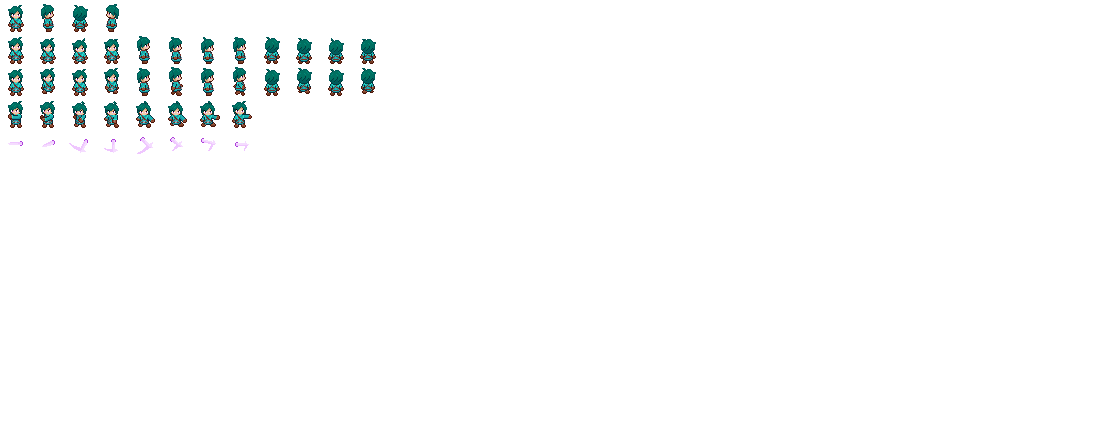
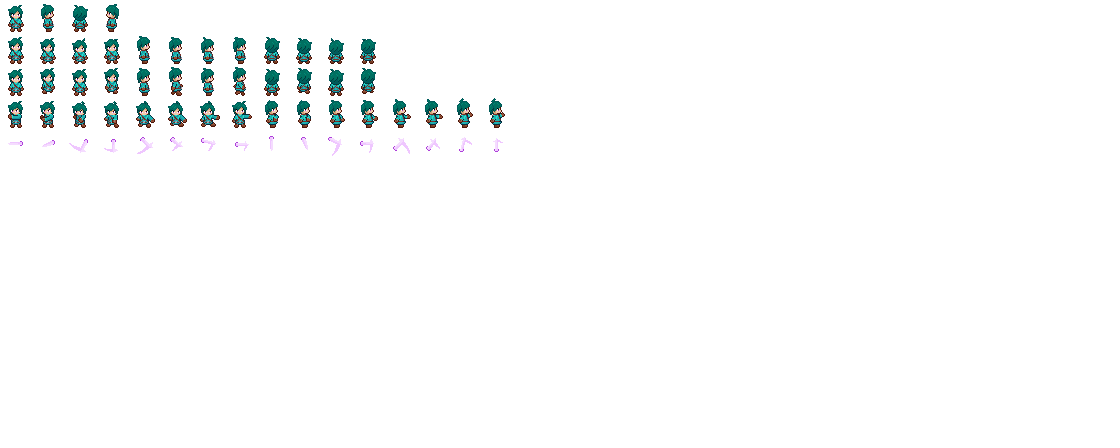
Frame step system, side attack animation, attack bug at end of animation

Changed region(s): [[0.2188, 0.2188, 0.4688, 0.2812], [0.2812, 0.3125, 0.4688, 0.3438]]

diff --git a/src/main.cc b/src/main.cc
@@ -2,6 +2,8 @@
 #include "graphics/RenderEngine.h"
 #include "input/InputManager.h"
 #include <SDL2/SDL.h>
+#include <SDL2/SDL_scancode.h>
+#include <iostream>
 
 const int SCALE = 4;
 const int SCREEN_WIDTH = 240;
@@ -25,6 +27,9 @@ int main (int argc, char *argv[])
     renderer.loadTexture(game.getTileMap()->getCurrentMap()->atlas);
 
     Uint64 lastStart = SDL_GetTicks64();
+
+    bool debugFrames = false;
+    bool stepNextFrame = false;
     
     while (game.isRunning())
     {
@@ -35,6 +40,47 @@ int main (int argc, char *argv[])
 
         inputManager.processEvents(&game);
 
+#ifndef DEBUG_MODE
+        if (inputManager.isKeyPressed(SDL_SCANCODE_0))
+        {
+            debugFrames = !debugFrames;
+            if (debugFrames)
+            {
+                std::cout << "[DEBUG] Stop time!" << std::endl;
+            }
+            else
+            {
+                std::cout << "[DEBUG] Resume time!" << std::endl;
+            }
+        }
+        
+        if (debugFrames && inputManager.isKeyPressed(SDL_SCANCODE_9))
+        {
+            stepNextFrame = true;
+            std::cout << "[DEBUG] Frame step..." << std::endl;
+        }
+
+        if (!debugFrames)
+        {
+            game.update(deltaTime);
+        }
+        else if (stepNextFrame)
+        {
+            const float fixedDeltaTime = 1.0f / TARGET_FPS;
+            game.update(fixedDeltaTime);
+            
+            stepNextFrame = false; 
+        }
+
+        renderer.render(&game);
+
+        Uint32 frameTime = SDL_GetTicks64() - frameStart;
+        if (FRAME_DELAY > frameTime)
+        {
+            SDL_Delay(FRAME_DELAY - frameTime);
+        }
+#endif
+/*
         game.update(deltaTime);
         
         renderer.render(&game);
@@ -45,6 +91,7 @@ int main (int argc, char *argv[])
         {
             SDL_Delay(FRAME_DELAY - frameTime);
         }
+*/
     }
 
     renderer.quit();

diff --git a/src/core/Player.h b/src/core/Player.h
@@ -169,10 +169,20 @@ class Player
             { -10,  9 },
             {  -5, 11 },
             {   1, 13 },
-            {  14, 10 },
-            {  13, 10 },
+            {  11, 14 },
+            {  13, 14 },
             {  16,  9 },
             {  14,  4 },
+        };
+        std::vector<std::pair<int, int>> swordSpriteOffsetSide = {
+            {  4, 14 },
+            {  5, 13 },
+            { 13, 14 },
+            { 15,  7 },
+            { 14,  0 },
+            { 13,  0 },
+            { 10, -5 },
+            {  7, -5 },
         };
 
         int animationFrame = 0;
@@ -191,5 +201,5 @@ class Player
 
         const uint8_t IDLE_FRAMES = 4;
         const uint8_t WALK_FRAMES = 4;
-        const uint8_t ATTACK_FRAMES = 6;
+        const uint8_t ATTACK_FRAMES = 8;
 };

diff --git a/src/core/Player.cc b/src/core/Player.cc
@@ -223,8 +223,7 @@ const std::pair<int, int> *Player::getSwordSpriteOffset() const
     }
     else if (direction == Direction::LEFT || direction == Direction::RIGHT)
     {
-        offset = &swordSpriteOffsetFront[animationFrame];
-        //offset = &swordSpriteOffsetSide[animationFrame];
+        offset = &swordSpriteOffsetSide[animationFrame];
     }
     else if (direction == Direction::BACK)
     {
